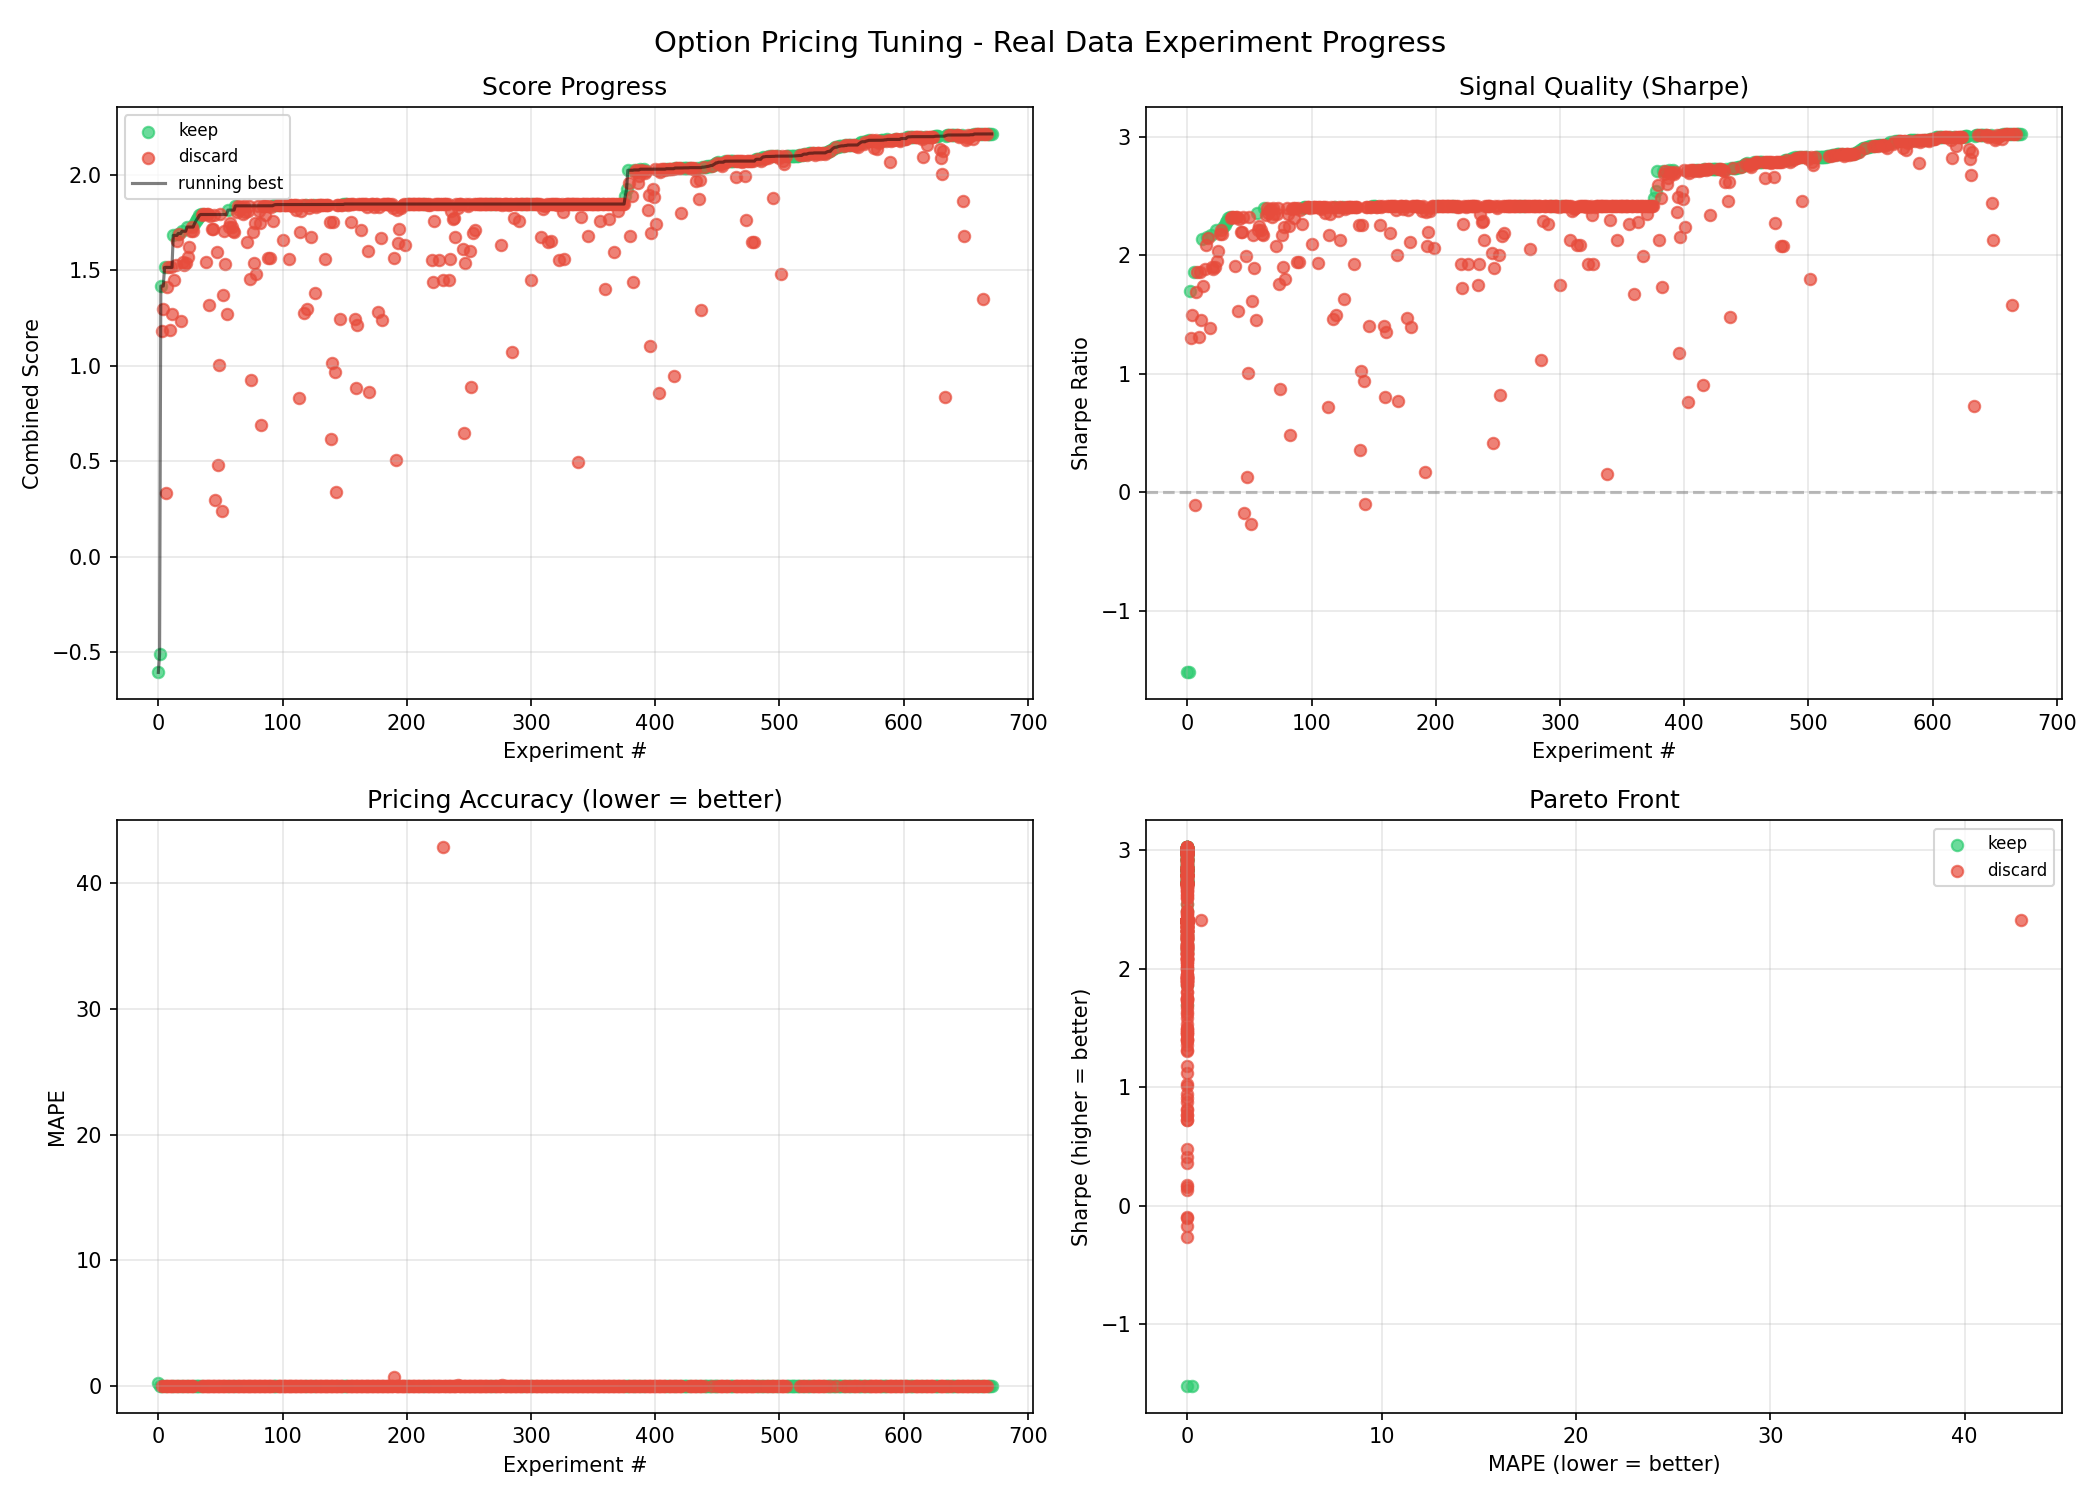
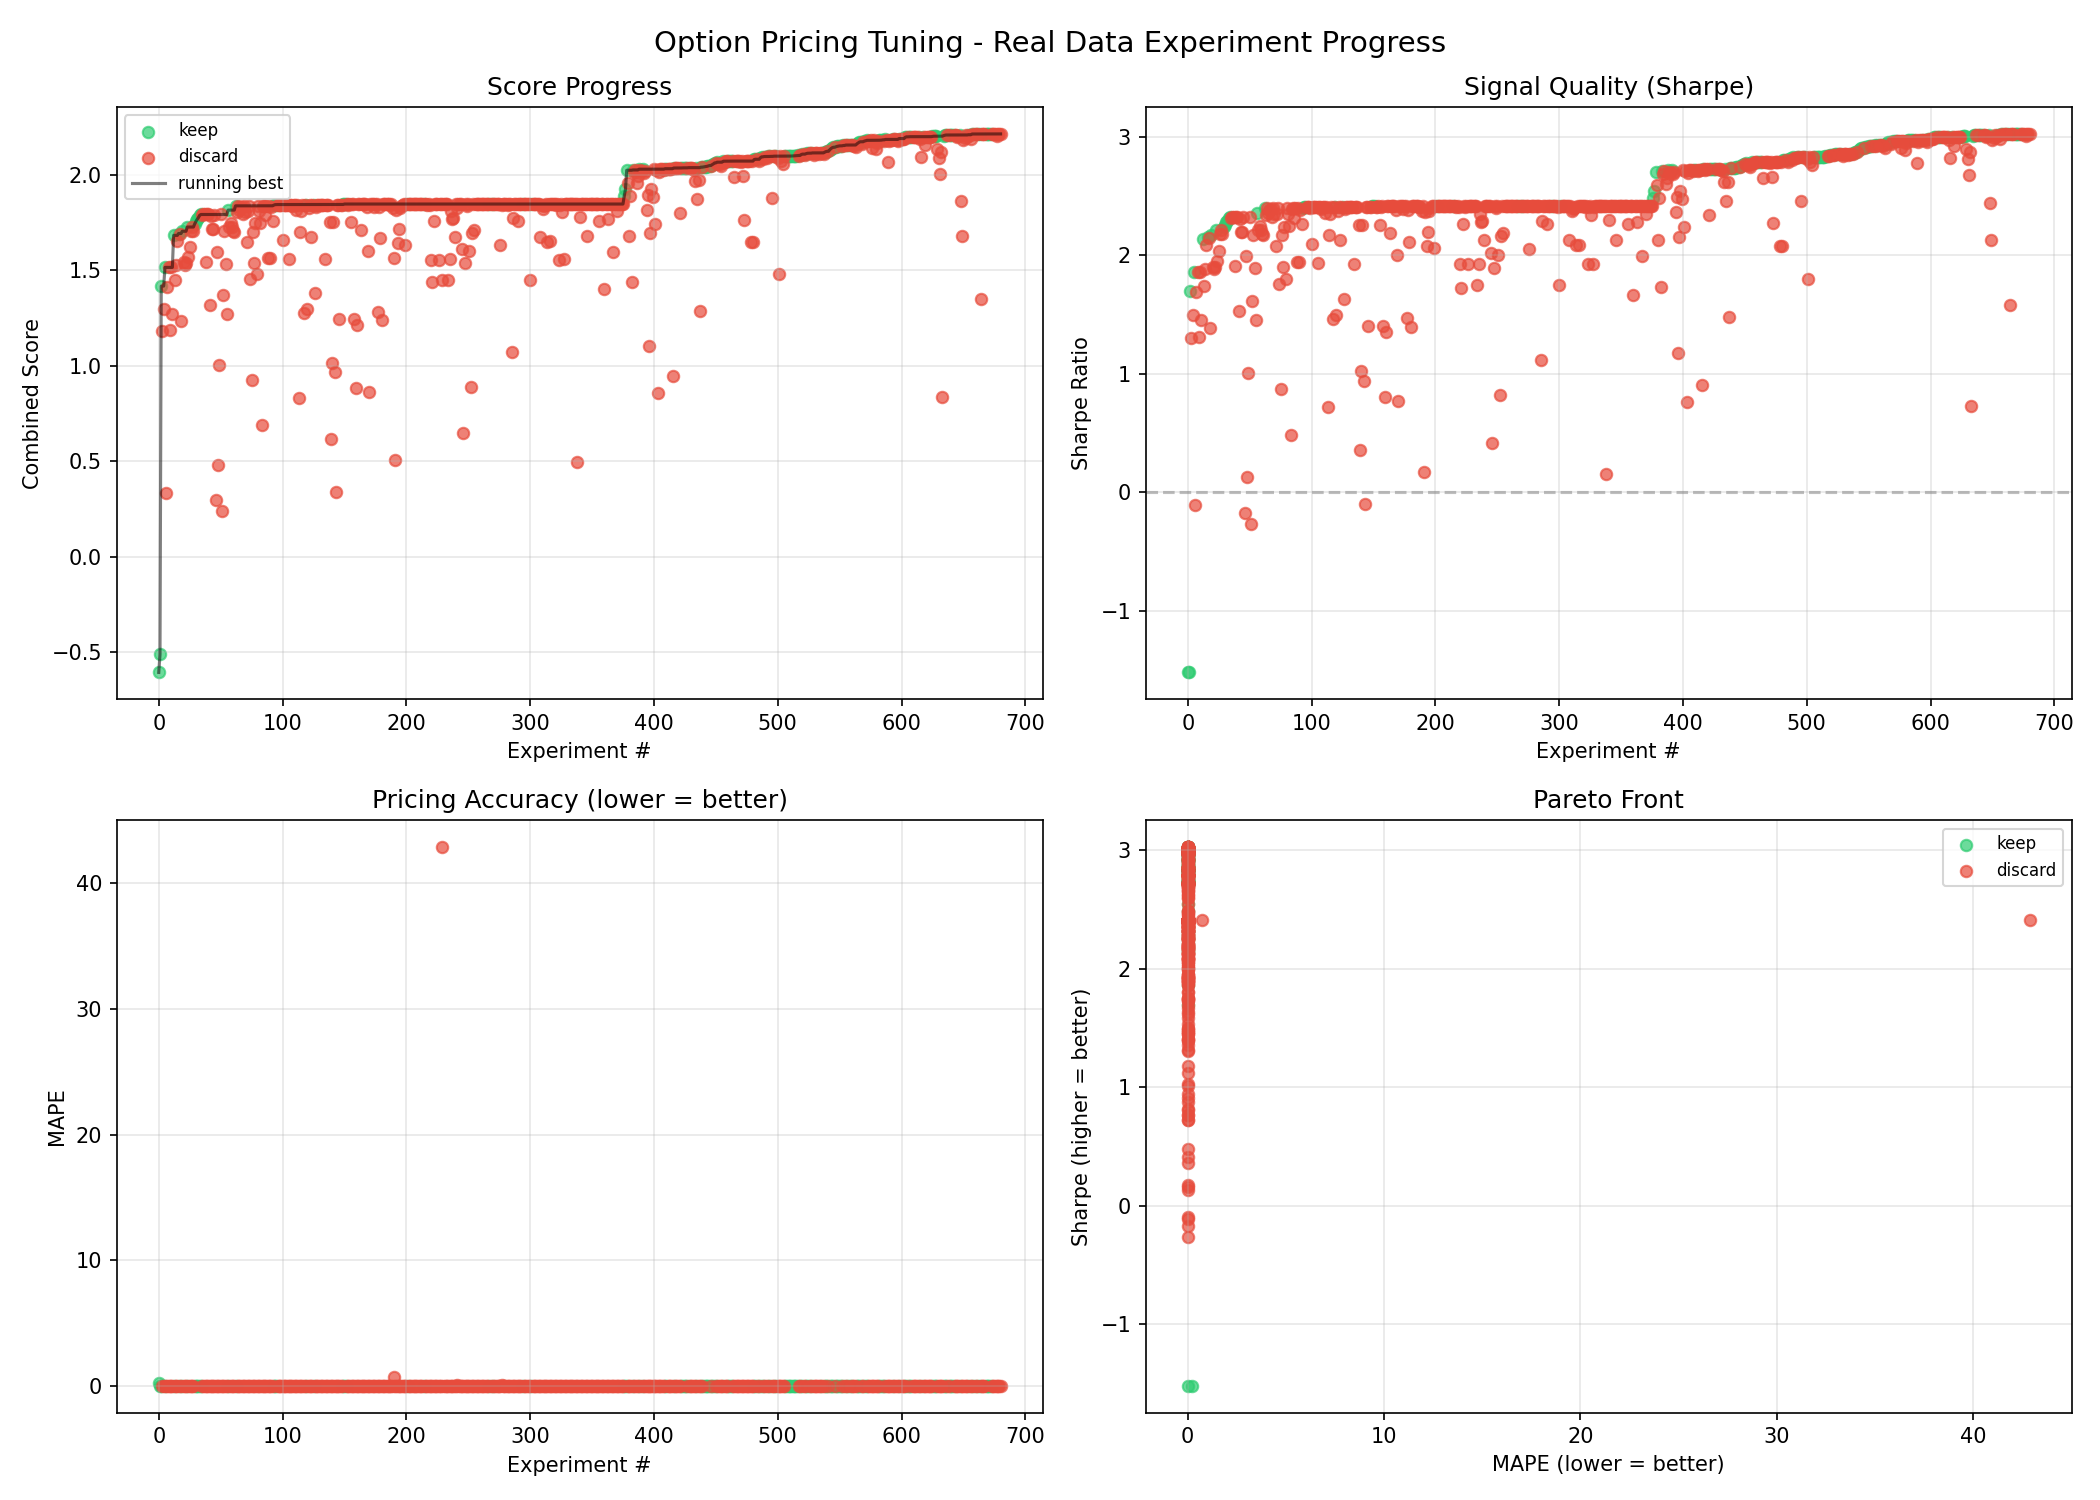
log exp681

diff --git a/README.md b/README.md
@@ -14,7 +14,7 @@ signals using **real stock market data** from Yahoo Finance.
 | MAPE | 0.002003 |
 | Win Rate | 86.2% |
 | Trades | 29 |
-| Experiments | 672 (149 kept) |
+| Experiments | 681 (150 kept) |
 
 ## How It Works
 
